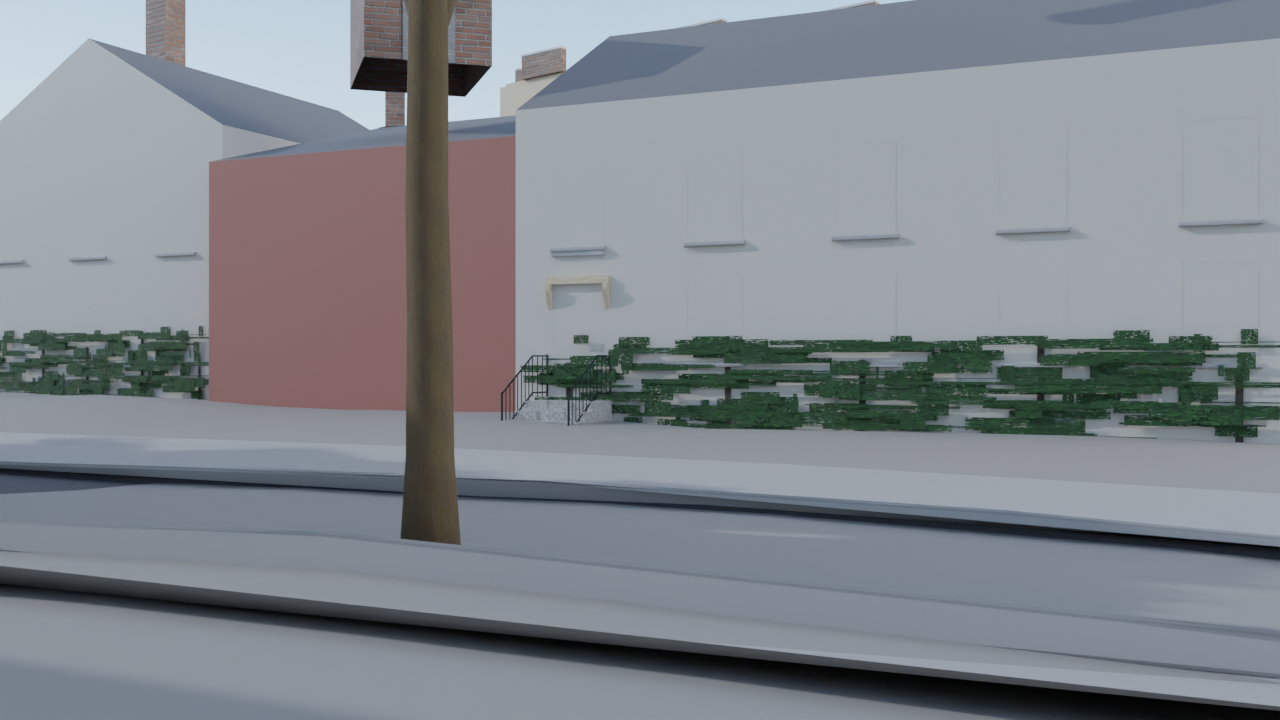
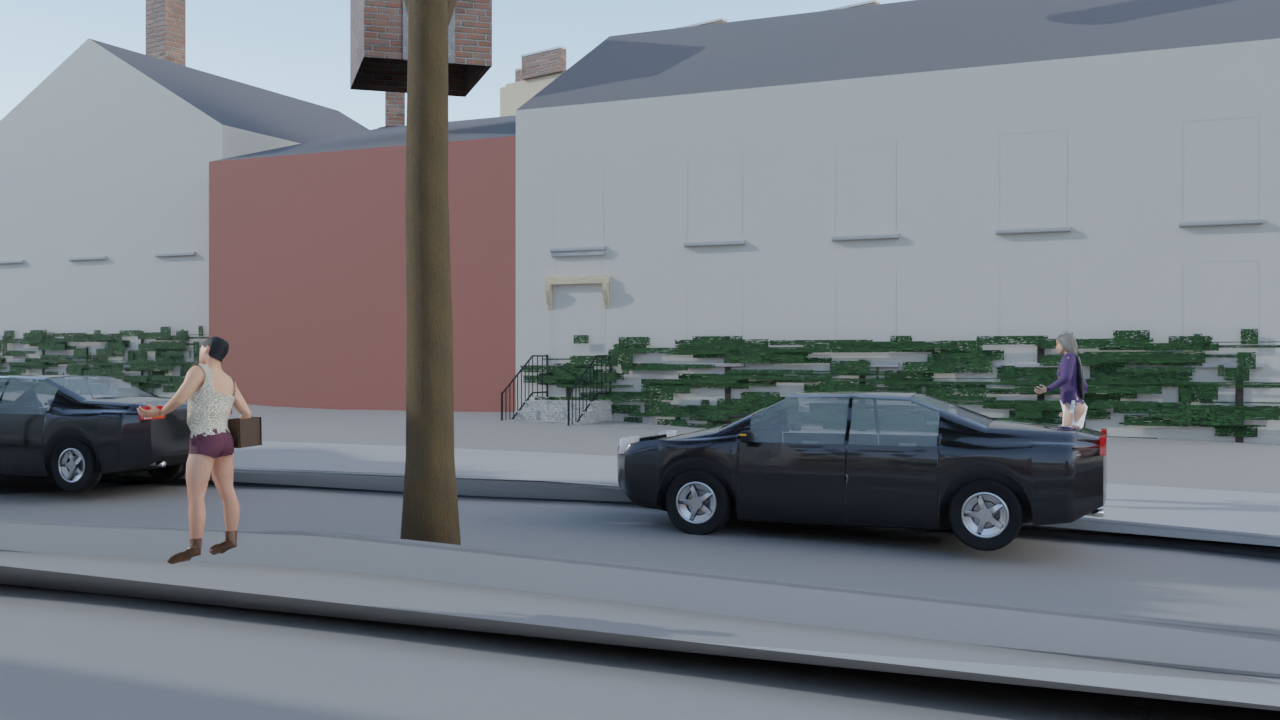
verify: Forest Hills - the best-composed drive-through frame, and the ivy band in it
The frame reads as a street: a car at the kerb and another behind it, two people
on the pavement, a street tree trunk in the foreground, houses behind their
front walls, a stoop with an iron railing, the roofline stepping down the block.
66 vehicles and 404 pedestrians in the scene with several of each actually in
shot, and nothing needed culling.

The artefact is the ivy.  55 vegetation kit pieces are placed and they are
ivy_panel_dense / ivy_panel_sparse - 1.947 m wide, 2.0 m tall, 0.185 m deep,
meant as ivy climbing a wall.  Placed in continuous abutting runs at a uniform
height they read as a green painted band along the base of every wall: same top
edge, same bottom edge, no gaps, no variation, too shallow to catch a shadow.
A placement pattern rather than a bad asset - one panel on one wall would be
fine.

The walls behind them are the facade-class case already recorded on the Bed-Stuy
and Park Slope sheets, and the sheet says so rather than repeating it as new:
1,936 window pieces rendering as faint rectangles with no opening, while the
Wall Street canyon frame shows the same kit producing real recessed openings.

Claude-Session: https://claude.ai/code/session_012rCzdfEp56Z5bDvSJLVsiQ

Changed region(s): [[0.4062, 0.4583, 0.9062, 0.7944], [0.0, 0.4583, 0.2188, 0.7944], [0.9375, 0.7333, 1.0, 0.7639]]

diff --git a/docs/verification/comparison/drive_queens_forest_hills/assessment.md b/docs/verification/comparison/drive_queens_forest_hills/assessment.md
@@ -12,6 +12,27 @@
 
 **Verdict — the single clearest demonstration in the set of what a flat-capped extruded footprint costs: Forest Hills Gardens is steep tiled roofs, half-timbering, casements and brick, and the render is white boxes with flat tops**
 
+## Re-rendered 2026-09-07 — the best-composed drive-through frame, with one conspicuous artefact
+
+This is the drive-through frame that reads most like a street: a car at the kerb and a second one
+behind it, two people walking the pavement, a street tree with its trunk in the foreground, houses
+set back behind their front walls, a stoop with an iron railing, and the roofline stepping down the
+block. 66 vehicles and 404 pedestrians are in the scene, and unlike the Bronx frames several of each
+are actually in shot. No agent needed culling — the nearest is well beyond the clearance.
+
+**The ivy is the artefact.** 55 `vegetation` kit pieces are placed, and they are
+`ivy_panel_dense` / `ivy_panel_sparse` — panels 1.947 m wide, 2.0 m tall and **0.185 m deep**,
+intended as ivy climbing a wall. Placed in continuous abutting runs at a uniform height they read as a
+green painted band along the base of every wall rather than as climbing plants: same top edge, same
+bottom edge, no gaps, no variation, and too shallow to catch a shadow. It is the most conspicuously
+unreal thing in the frame, and it is a placement pattern rather than a bad asset — one panel on one
+wall would be fine.
+
+The walls behind them are the facade-class case already recorded on the Bed-Stuy and Park Slope
+sheets: 1,936 window pieces in this frame, rendering as faint rectangles on a flat plane with no
+opening, reveal or glass. The Wall Street canyon frame shows the same kit producing real recessed
+openings, so this is a property of these classes and not of the kit.
+
 ## What matches
 
 * The camera stands on the photograph's own EXIF GPS, 222 m from the item's nominal viewpoint, at 23.4 m NAVD88 on a 21.8 m surface, and the new point-sample ground rule was used because the note names a terrace.
